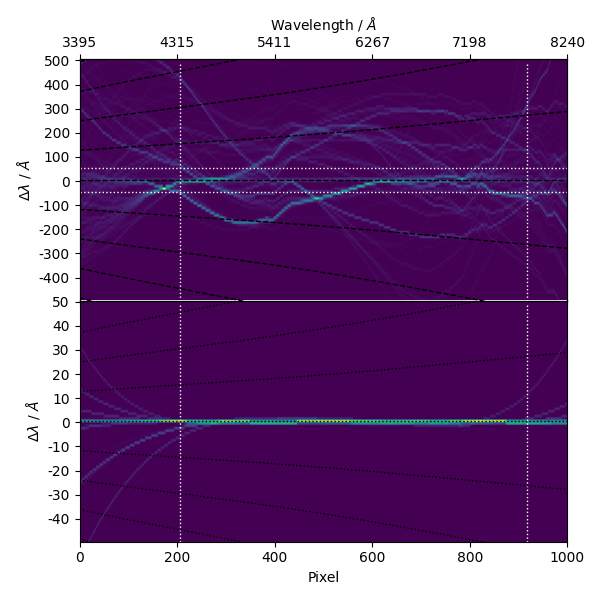
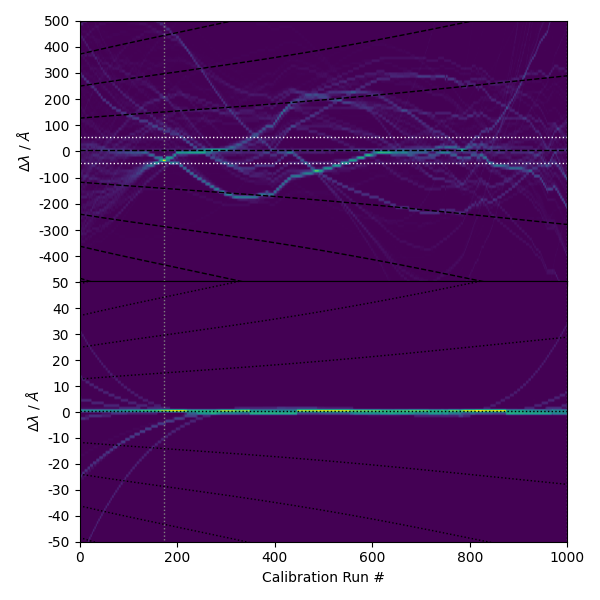
updated figure and generating stats.

diff --git a/plots/lt_sprat_plot.py b/plots/lt_sprat_plot.py
@@ -1,11 +1,16 @@
+import itertools
+import os
+
+from astropy.io import fits
 from matplotlib import pyplot as plt
 import matplotlib.patches as mpatches
 import matplotlib.patches as patches
 import matplotlib.ticker as plticker
-import itertools
 import matplotlib as mpl
 import numpy as np
-import os
+from scipy.signal import find_peaks
+
+from rascal import util
 
 # Load the LT SPRAT data
 if '__file__' in locals():
@@ -256,15 +261,15 @@ pix4_range = (np.nanmean(wave_manual[-1][:, 4]) - resolution1 * 50,
               np.nanmean(wave_manual[-1][:, 4]) + resolution1 * 50)
 
 pix0_range_manual = (np.nanmean(wave_manual[-1][:, 0]) - resolution1 * 5,
-              np.nanmean(wave_manual[-1][:, 0]) + resolution1 * 5)
+                     np.nanmean(wave_manual[-1][:, 0]) + resolution1 * 5)
 pix1_range_manual = (np.nanmean(wave_manual[-1][:, 1]) - resolution1 * 5,
-              np.nanmean(wave_manual[-1][:, 1]) + resolution1 * 5)
+                     np.nanmean(wave_manual[-1][:, 1]) + resolution1 * 5)
 pix2_range_manual = (np.nanmean(wave_manual[-1][:, 2]) - resolution1 * 5,
-              np.nanmean(wave_manual[-1][:, 2]) + resolution1 * 5)
+                     np.nanmean(wave_manual[-1][:, 2]) + resolution1 * 5)
 pix3_range_manual = (np.nanmean(wave_manual[-1][:, 3]) - resolution1 * 5,
-              np.nanmean(wave_manual[-1][:, 3]) + resolution1 * 5)
+                     np.nanmean(wave_manual[-1][:, 3]) + resolution1 * 5)
 pix4_range_manual = (np.nanmean(wave_manual[-1][:, 4]) - resolution1 * 5,
-              np.nanmean(wave_manual[-1][:, 4]) + resolution1 * 5)
+                     np.nanmean(wave_manual[-1][:, 4]) + resolution1 * 5)
 
 fig5, ax5 = plt.subplots(2, 5, sharey=True)
 fig5.set_figheight(10)
@@ -353,11 +358,11 @@ ax5[0, 4].set_xlim(
     np.nanmean(wave_manual[-1][:, 4]) - resolution5 * 50,
     np.nanmean(wave_manual[-1][:, 4]) + resolution5 * 50)
 
-loc1 = plticker.MultipleLocator(base=resolution1*10)
-loc2 = plticker.MultipleLocator(base=resolution2*10)
-loc3 = plticker.MultipleLocator(base=resolution3*10)
-loc4 = plticker.MultipleLocator(base=resolution4*10)
-loc5 = plticker.MultipleLocator(base=resolution5*10)
+loc1 = plticker.MultipleLocator(base=resolution1 * 10)
+loc2 = plticker.MultipleLocator(base=resolution2 * 10)
+loc3 = plticker.MultipleLocator(base=resolution3 * 10)
+loc4 = plticker.MultipleLocator(base=resolution4 * 10)
+loc5 = plticker.MultipleLocator(base=resolution5 * 10)
 
 ax5[1, 0].set_xlim(
     np.nanmean(wave_manual[-1][:, 0]) - resolution1 * 5,
@@ -432,11 +437,41 @@ ax5[1, 2].set_xticklabels(label3_manual, rotation=270)
 ax5[1, 3].set_xticklabels(label4_manual, rotation=270)
 ax5[1, 4].set_xticklabels(label5_manual, rotation=270)
 
-rect1 = patches.Rectangle((np.nanmean(wave_manual[-1][:, 0]) - resolution1 * 10, -10), resolution1*20, 1100, lw=2, edgecolor='grey', facecolor='lightcyan')
-rect2 = patches.Rectangle((np.nanmean(wave_manual[-1][:, 1]) - resolution2 * 10, -10), resolution2*20, 1100, lw=2, edgecolor='grey', facecolor='lightcyan')
-rect3 = patches.Rectangle((np.nanmean(wave_manual[-1][:, 2]) - resolution3 * 10, -10), resolution3*20, 1100, lw=2, edgecolor='grey', facecolor='lightcyan')
-rect4 = patches.Rectangle((np.nanmean(wave_manual[-1][:, 3]) - resolution4 * 10, -10), resolution4*20, 1100, lw=2, edgecolor='grey', facecolor='lightcyan')
-rect5 = patches.Rectangle((np.nanmean(wave_manual[-1][:, 4]) - resolution5 * 10, -10), resolution5*20, 1100, lw=2, edgecolor='grey', facecolor='lightcyan')
+rect1 = patches.Rectangle(
+    (np.nanmean(wave_manual[-1][:, 0]) - resolution1 * 10, -10),
+    resolution1 * 20,
+    1100,
+    lw=2,
+    edgecolor='grey',
+    facecolor='lightcyan')
+rect2 = patches.Rectangle(
+    (np.nanmean(wave_manual[-1][:, 1]) - resolution2 * 10, -10),
+    resolution2 * 20,
+    1100,
+    lw=2,
+    edgecolor='grey',
+    facecolor='lightcyan')
+rect3 = patches.Rectangle(
+    (np.nanmean(wave_manual[-1][:, 2]) - resolution3 * 10, -10),
+    resolution3 * 20,
+    1100,
+    lw=2,
+    edgecolor='grey',
+    facecolor='lightcyan')
+rect4 = patches.Rectangle(
+    (np.nanmean(wave_manual[-1][:, 3]) - resolution4 * 10, -10),
+    resolution4 * 20,
+    1100,
+    lw=2,
+    edgecolor='grey',
+    facecolor='lightcyan')
+rect5 = patches.Rectangle(
+    (np.nanmean(wave_manual[-1][:, 4]) - resolution5 * 10, -10),
+    resolution5 * 20,
+    1100,
+    lw=2,
+    edgecolor='grey',
+    facecolor='lightcyan')
 
 ax5[0, 0].set_facecolor('cornsilk')
 ax5[0, 1].set_facecolor('cornsilk')
@@ -459,6 +494,8 @@ ax5[1, 4].set_facecolor('lightcyan')
 fig5.savefig('figure_4_wavelengths.png')
 
 # Figure 6 - 2D heatmap of the solution
+
+
 fig6, ax6 = plt.subplots(2, 1, sharex=True, sharey=False)
 fig6.set_figheight(6)
 fig6.set_figwidth(6)
@@ -501,11 +538,6 @@ ax6[0].set_yticks(np.linspace(0, 100, len(dw_yedges[::10])) - 0.5)
 ax6[0].set_yticklabels(dw_yedges[::10].astype('int'))
 ax6[0].set_ylabel(r'$\Delta\lambda\ /\ \AA$')
 
-ax6a = ax6[0].twiny()
-ax6a.set_xticks(pix[::200] - 1)
-ax6a.set_xticklabels(np.nanmedian(wave, axis=0)[::200].astype('int'))
-ax6a.set_xlabel(r'Wavelength / $\AA$')
-
 ax6[1].imshow(np.array(delta_wave_manual_heatmap).T,
               origin='lower',
               aspect='auto')
@@ -515,42 +547,151 @@ ax6[1].set_yticklabels(dw_manual_yedges[::10].astype('int'))
 ax6[1].set_ylabel(r'$\Delta\lambda\ /\ \AA$')
 ax6[1].set_xticks(pix[::200] - 1)
 ax6[1].set_xticklabels((pix[::200] - 1).astype('int'))
-ax6[1].set_xlabel('Pixel')
+ax6[1].set_xlabel('Calibration Run #')
 
-ax6[0].vlines([np.argwhere(wave[-1]>4500)[0], np.argwhere(wave[-1]>8050)[0]], ymin=0, ymax=99, color='white', ls=':', lw=1)
-ax6[1].vlines([np.argwhere(wave[-1]>4500)[0], np.argwhere(wave[-1]>8050)[0]], ymin=0, ymax=99, color='white', ls=':', lw=1)
 
+ax6[0].vlines(
+    [173,
+     1000],
+    ymin=0,
+    ymax=99,
+    color='grey',
+    ls=':',
+    lw=1)
+ax6[1].vlines(
+    [173,
+     1000],
+    ymin=0,
+    ymax=99,
+    color='grey',
+    ls=':',
+    lw=1)
 res = wave[-1] / 300.
+
+# auto calibration
 ax6[0].plot(50 + res, color='black', lw=1, ls='dashed')
-ax6[0].plot(50 + res*2, color='black', lw=1, ls='dashed')
-ax6[0].plot(50 + res*3, color='black', lw=1, ls='dashed')
-ax6[0].plot(50 + res*4, color='black', lw=1, ls='dashed')
-ax6[0].plot(50 + res*5, color='black', lw=1, ls='dashed')
+ax6[0].plot(50 + res * 2, color='black', lw=1, ls='dashed')
+ax6[0].plot(50 + res * 3, color='black', lw=1, ls='dashed')
+ax6[0].plot(50 + res * 4, color='black', lw=1, ls='dashed')
+ax6[0].plot(50 + res * 5, color='black', lw=1, ls='dashed')
 ax6[0].plot([0, 1000], [50, 50], color='black', lw=1, ls='dashed')
-ax6[0].plot(50 -res, color='black', lw=1, ls='dashed')
-ax6[0].plot(50 -res*2, color='black', lw=1, ls='dashed')
-ax6[0].plot(50 -res*3, color='black', lw=1, ls='dashed')
-ax6[0].plot(50 -res*4, color='black', lw=1, ls='dashed')
-ax6[0].plot(50 -res*5, color='black', lw=1, ls='dashed')
+ax6[0].plot(50 - res, color='black', lw=1, ls='dashed')
+ax6[0].plot(50 - res * 2, color='black', lw=1, ls='dashed')
+ax6[0].plot(50 - res * 3, color='black', lw=1, ls='dashed')
+ax6[0].plot(50 - res * 4, color='black', lw=1, ls='dashed')
+ax6[0].plot(50 - res * 5, color='black', lw=1, ls='dashed')
 ax6[0].plot([0, 1000], [55, 55], color='white', lw=1, ls=':')
 ax6[0].plot([0, 1000], [45, 45], color='white', lw=1, ls=':')
 ax6[0].set_xlim(0, 1000)
-ax6[0].set_ylim(0, 100)
+ax6[0].set_ylim(0, 99.5)
 
+# manual calibration
 ax6[1].plot(50 + res, color='black', lw=1, ls=':')
-ax6[1].plot(50 + res*2, color='black', lw=1, ls=':')
-ax6[1].plot(50 + res*3, color='black', lw=1, ls=':')
-ax6[1].plot(50 + res*4, color='black', lw=1, ls=':')
-ax6[1].plot(50 + res*5, color='black', lw=1, ls=':')
+ax6[1].plot(50 + res * 2, color='black', lw=1, ls=':')
+ax6[1].plot(50 + res * 3, color='black', lw=1, ls=':')
+ax6[1].plot(50 + res * 4, color='black', lw=1, ls=':')
+ax6[1].plot(50 + res * 5, color='black', lw=1, ls=':')
 ax6[1].plot([0, 1000], [50, 50], color='black', lw=1, ls=':')
-ax6[1].plot(50 -res, color='black', lw=1, ls=':')
-ax6[1].plot(50 -res*2, color='black', lw=1, ls=':')
-ax6[1].plot(50 -res*3, color='black', lw=1, ls=':')
-ax6[1].plot(50 -res*4, color='black', lw=1, ls=':')
-ax6[1].plot(50 -res*5, color='black', lw=1, ls=':')
+ax6[1].plot(50 - res, color='black', lw=1, ls=':')
+ax6[1].plot(50 - res * 2, color='black', lw=1, ls=':')
+ax6[1].plot(50 - res * 3, color='black', lw=1, ls=':')
+ax6[1].plot(50 - res * 4, color='black', lw=1, ls=':')
+ax6[1].plot(50 - res * 5, color='black', lw=1, ls=':')
 ax6[1].set_xlim(0, 1000)
-ax6[1].set_ylim(0, 100)
+ax6[1].set_ylim(-0.5, 100)
 
 fig6.tight_layout()
 fig6.subplots_adjust(hspace=0)
 fig6.savefig('figure_5_heatmap.png')
+
+print('Auto calibration:')
+for i, mt in enumerate(max_tries):
+    print('max_tries = {}.'.format(i))
+    print('C0 = {} +/- {}.'.format(np.nanmean(best_p_mt[i][:, 0]),
+                                   np.nanstd(best_p_mt[i][:, 0])))
+    print('C1 = {} +/- {}.'.format(np.nanmean(best_p_mt[i][:, 1]),
+                                   np.nanstd(best_p_mt[i][:, 1])))
+    print('C2 = {} +/- {}.'.format(np.nanmean(best_p_mt[i][:, 2]),
+                                   np.nanstd(best_p_mt[i][:, 2])))
+    print('C3 = {} +/- {}.'.format(np.nanmean(best_p_mt[i][:, 3]),
+                                   np.nanstd(best_p_mt[i][:, 3])))
+    print('C4 = {} +/- {}.'.format(np.nanmean(best_p_mt[i][:, 4]),
+                                   np.nanstd(best_p_mt[i][:, 4])))
+    print('RMS = {} +/- {}.'.format(np.nanmean(rms_mt[i]),
+                                    np.nanstd(rms_mt[i])))
+    print('Peak Utilisation = {} +/- {}.'.format(
+        np.nanmean(peak_utilisation_mt[i]), np.nanstd(peak_utilisation_mt[i])))
+    print('Atlas Utilisation = {} +/- {}.'.format(
+        np.nanmean(atlas_utilisation_mt[i]),
+        np.nanstd(atlas_utilisation_mt[i])))
+    wave150 = []
+    wave350 = []
+    wave550 = []
+    wave750 = []
+    wave950 = []
+    for j in range(N):
+        wave150.append(np.polynomial.polynomial.polyval(150, best_p_mt[i][j]))
+        wave350.append(np.polynomial.polynomial.polyval(350, best_p_mt[i][j]))
+        wave550.append(np.polynomial.polynomial.polyval(550, best_p_mt[i][j]))
+        wave750.append(np.polynomial.polynomial.polyval(750, best_p_mt[i][j]))
+        wave950.append(np.polynomial.polynomial.polyval(950, best_p_mt[i][j]))
+
+    print('Pix 150 = {} +/- {}.'.format(np.nanmean(wave150),
+                                        np.nanstd(wave150)))
+    print('Pix 350 = {} +/- {}.'.format(np.nanmean(wave350),
+                                        np.nanstd(wave350)))
+    print('Pix 550 = {} +/- {}.'.format(np.nanmean(wave550),
+                                        np.nanstd(wave550)))
+    print('Pix 750 = {} +/- {}.'.format(np.nanmean(wave750),
+                                        np.nanstd(wave750)))
+    print('Pix 950 = {} +/- {}.'.format(np.nanmean(wave950),
+                                        np.nanstd(wave950)))
+
+print('Manual calibration:')
+for i, mt in enumerate(max_tries):
+    print('max_tries = {}.'.format(i))
+    print('C0 = {} +/- {}.'.format(np.nanmean(best_p_manual_mt[i][:, 0]),
+                                   np.nanstd(best_p_manual_mt[i][:, 0])))
+    print('C1 = {} +/- {}.'.format(np.nanmean(best_p_manual_mt[i][:, 1]),
+                                   np.nanstd(best_p_manual_mt[i][:, 1])))
+    print('C2 = {} +/- {}.'.format(np.nanmean(best_p_manual_mt[i][:, 2]),
+                                   np.nanstd(best_p_manual_mt[i][:, 2])))
+    print('C3 = {} +/- {}.'.format(np.nanmean(best_p_manual_mt[i][:, 3]),
+                                   np.nanstd(best_p_manual_mt[i][:, 3])))
+    print('C4 = {} +/- {}.'.format(np.nanmean(best_p_manual_mt[i][:, 4]),
+                                   np.nanstd(best_p_manual_mt[i][:, 4])))
+    print('RMS = {} +/- {}.'.format(np.nanmean(rms_manual_mt[i]),
+                                    np.nanstd(rms_manual_mt[i])))
+    print('Peak Utilisation = {} +/- {}.'.format(
+        np.nanmean(peak_utilisation_manual_mt[i]),
+        np.nanstd(peak_utilisation_manual_mt[i])))
+    print('Atlas Utilisation = {} +/- {}.'.format(
+        np.nanmean(atlas_utilisation_manual_mt[i]),
+        np.nanstd(atlas_utilisation_manual_mt[i])))
+    wave150 = []
+    wave350 = []
+    wave550 = []
+    wave750 = []
+    wave950 = []
+    for j in range(N):
+        wave150.append(
+            np.polynomial.polynomial.polyval(150, best_p_manual_mt[i][j]))
+        wave350.append(
+            np.polynomial.polynomial.polyval(350, best_p_manual_mt[i][j]))
+        wave550.append(
+            np.polynomial.polynomial.polyval(550, best_p_manual_mt[i][j]))
+        wave750.append(
+            np.polynomial.polynomial.polyval(750, best_p_manual_mt[i][j]))
+        wave950.append(
+            np.polynomial.polynomial.polyval(950, best_p_manual_mt[i][j]))
+
+    print('Pix 150 = {} +/- {}.'.format(np.nanmean(wave150),
+                                        np.nanstd(wave150)))
+    print('Pix 350 = {} +/- {}.'.format(np.nanmean(wave350),
+                                        np.nanstd(wave350)))
+    print('Pix 550 = {} +/- {}.'.format(np.nanmean(wave550),
+                                        np.nanstd(wave550)))
+    print('Pix 750 = {} +/- {}.'.format(np.nanmean(wave750),
+                                        np.nanstd(wave750)))
+    print('Pix 950 = {} +/- {}.'.format(np.nanmean(wave950),
+                                        np.nanstd(wave950)))
